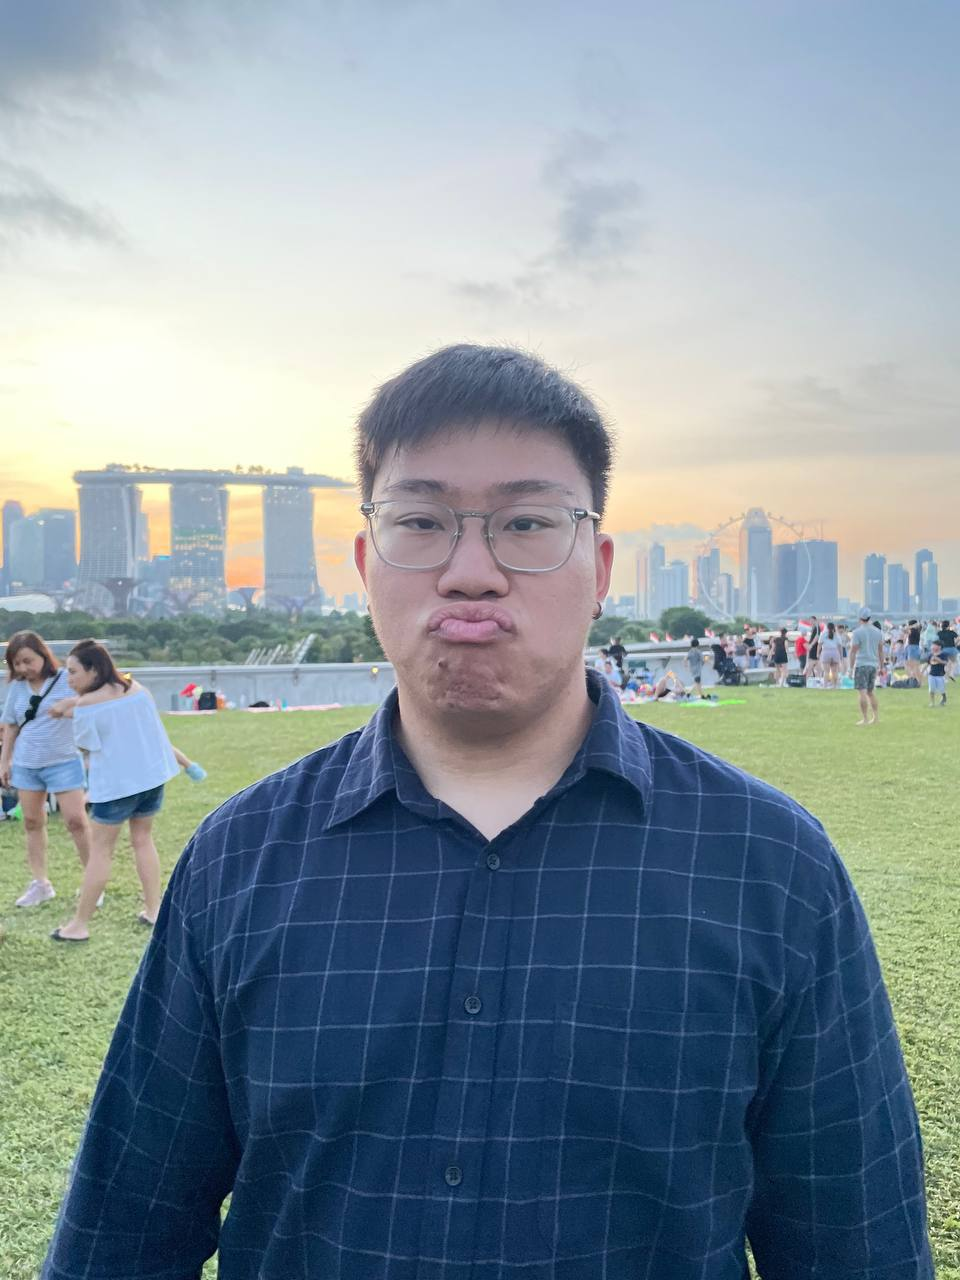
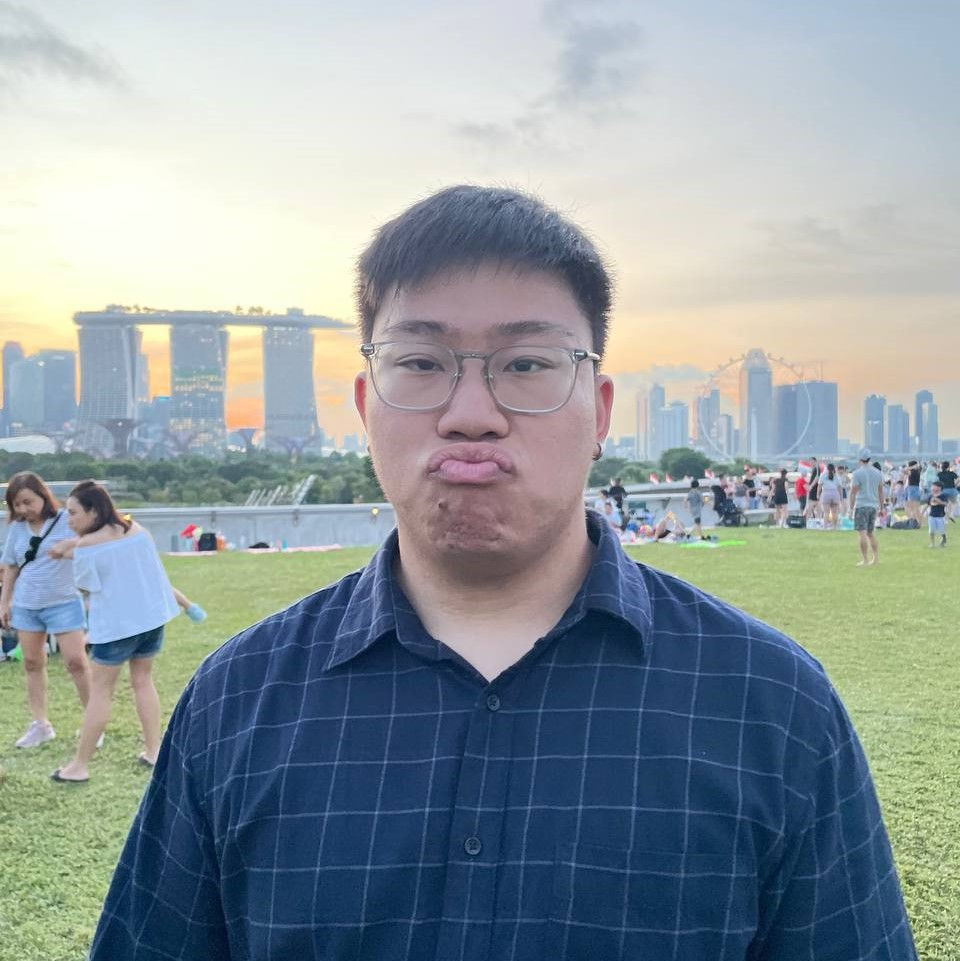
changed photos' aspect ratios and fixed a bug

diff --git a/src/components/Data/yearData.ts b/src/components/Data/yearData.ts
@@ -81,7 +81,7 @@ const yearData: YearMap = {
       {
         name: "Ng Yu Xin",
         role: "Events Director",
-        image: "yuxin.jpeg",
+        image: "yuxin.jpsg",
       },
     ],
     projects: [
